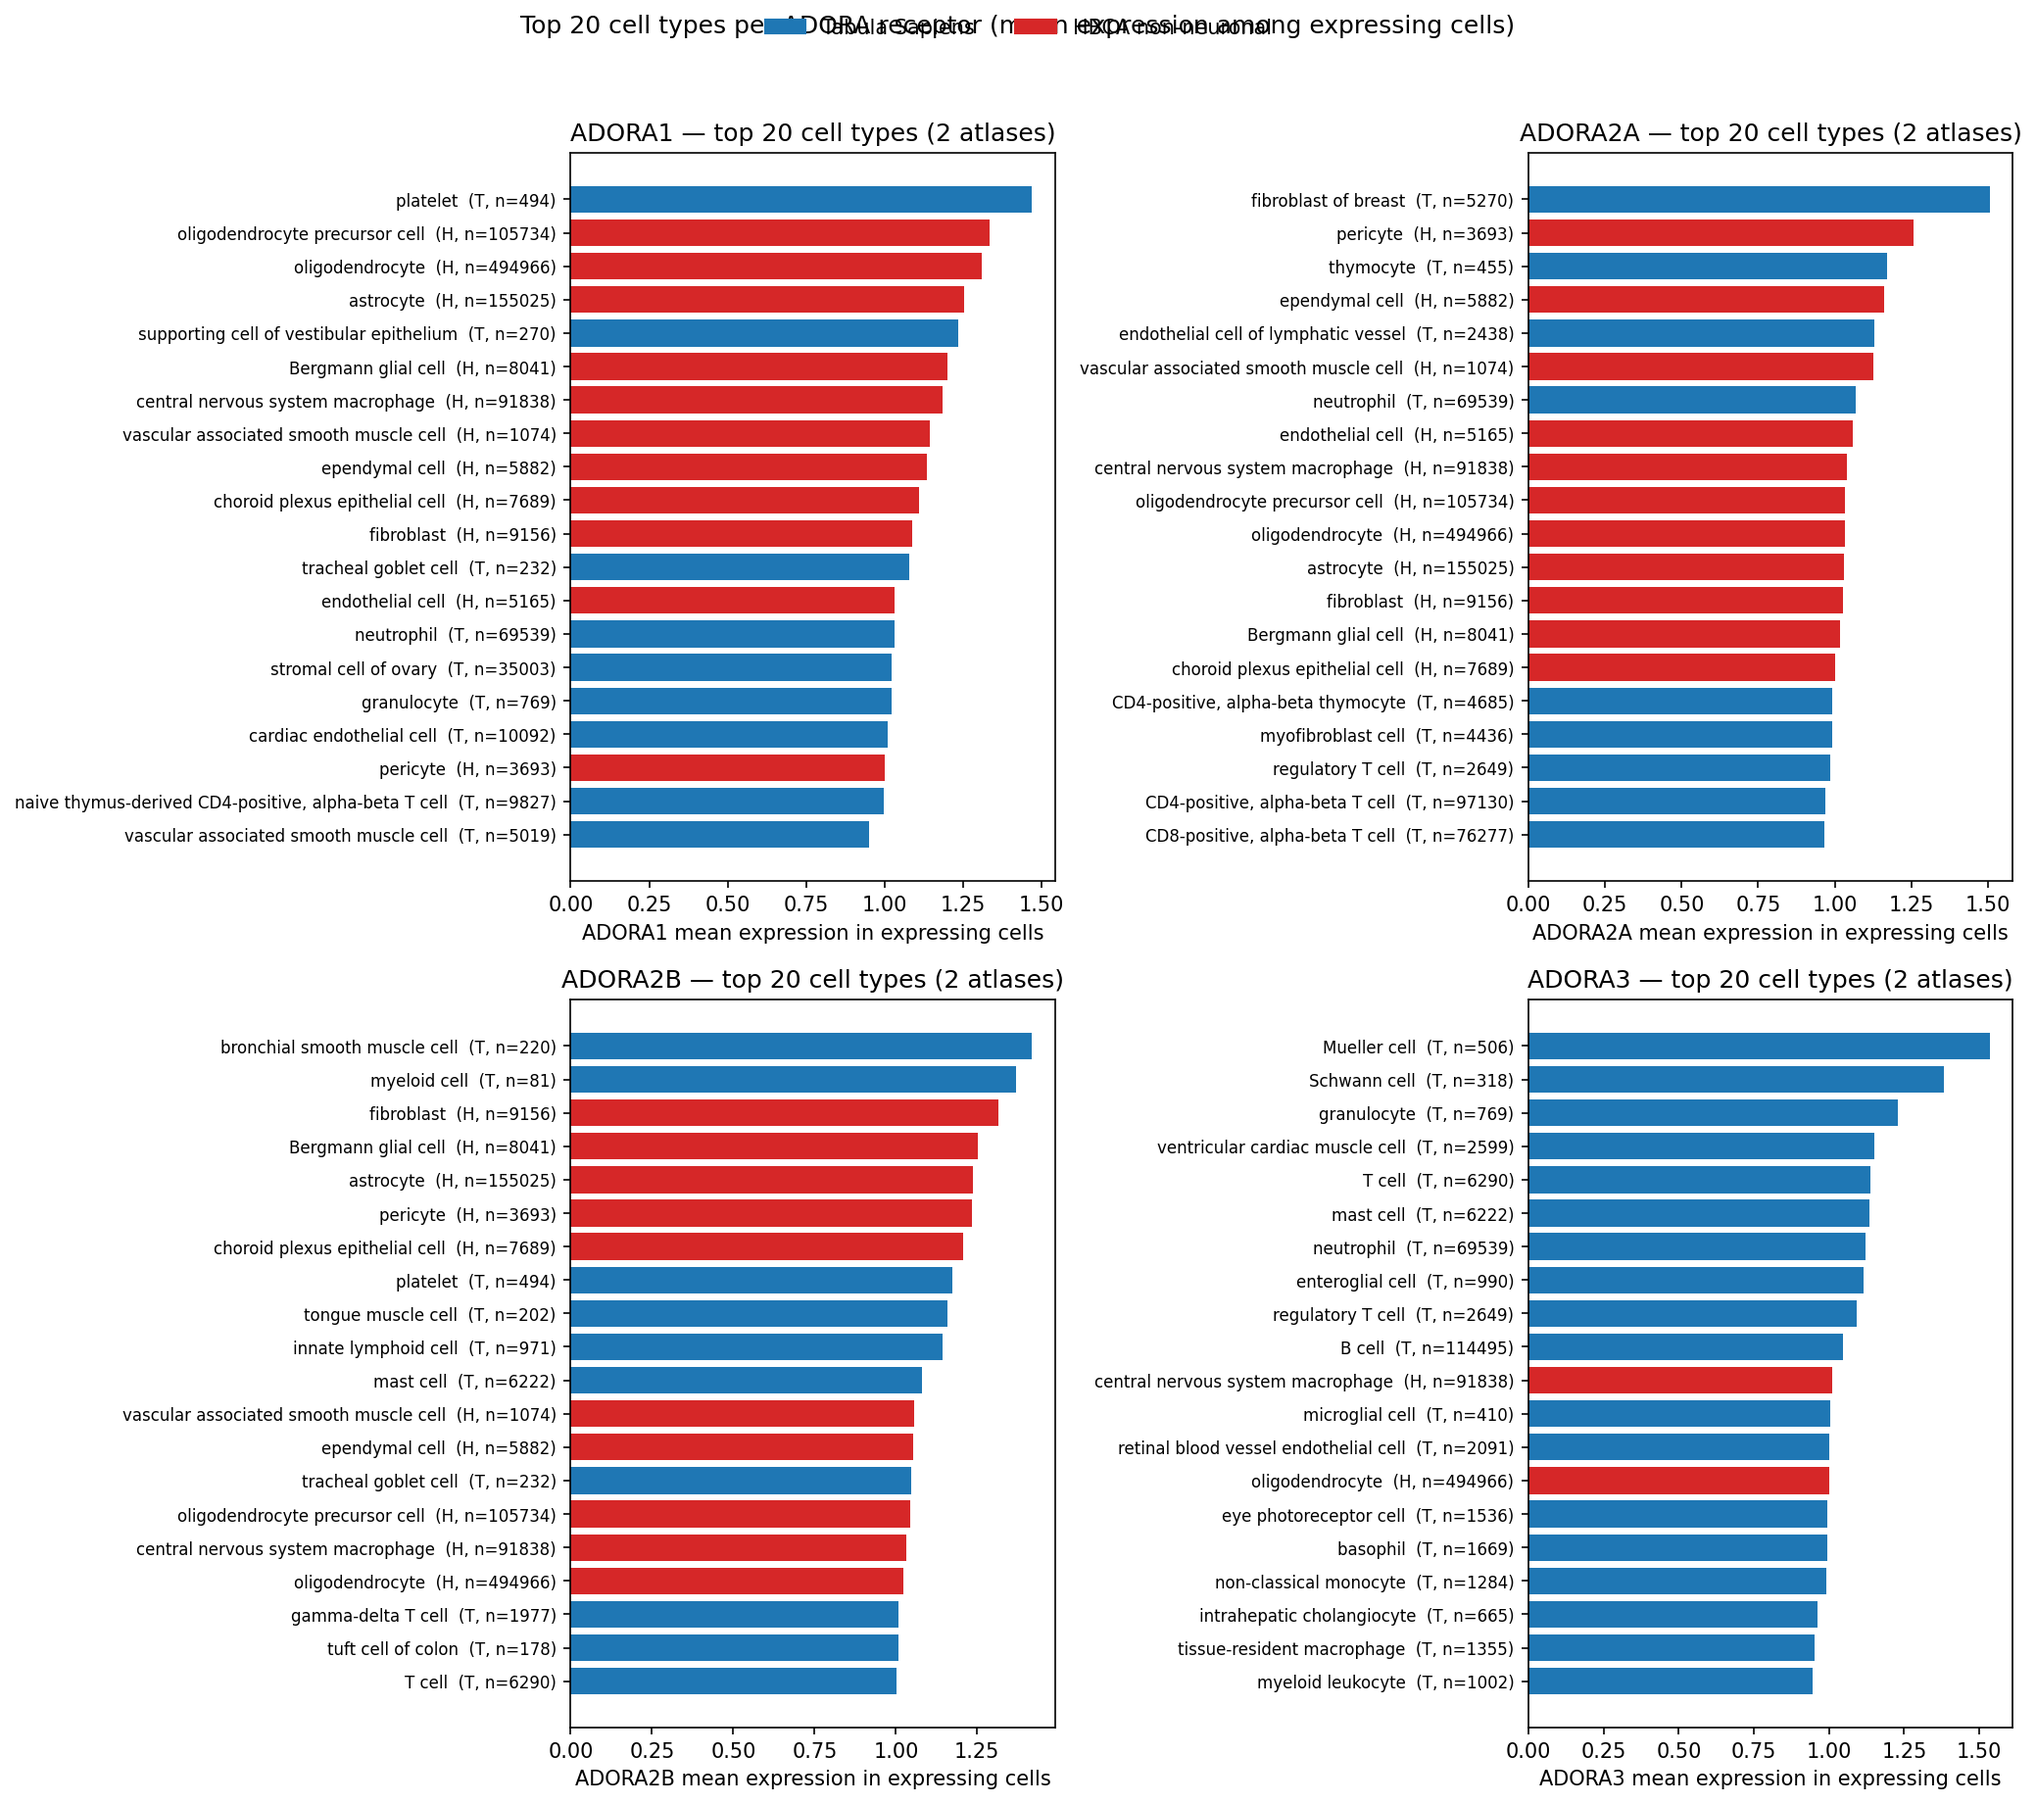
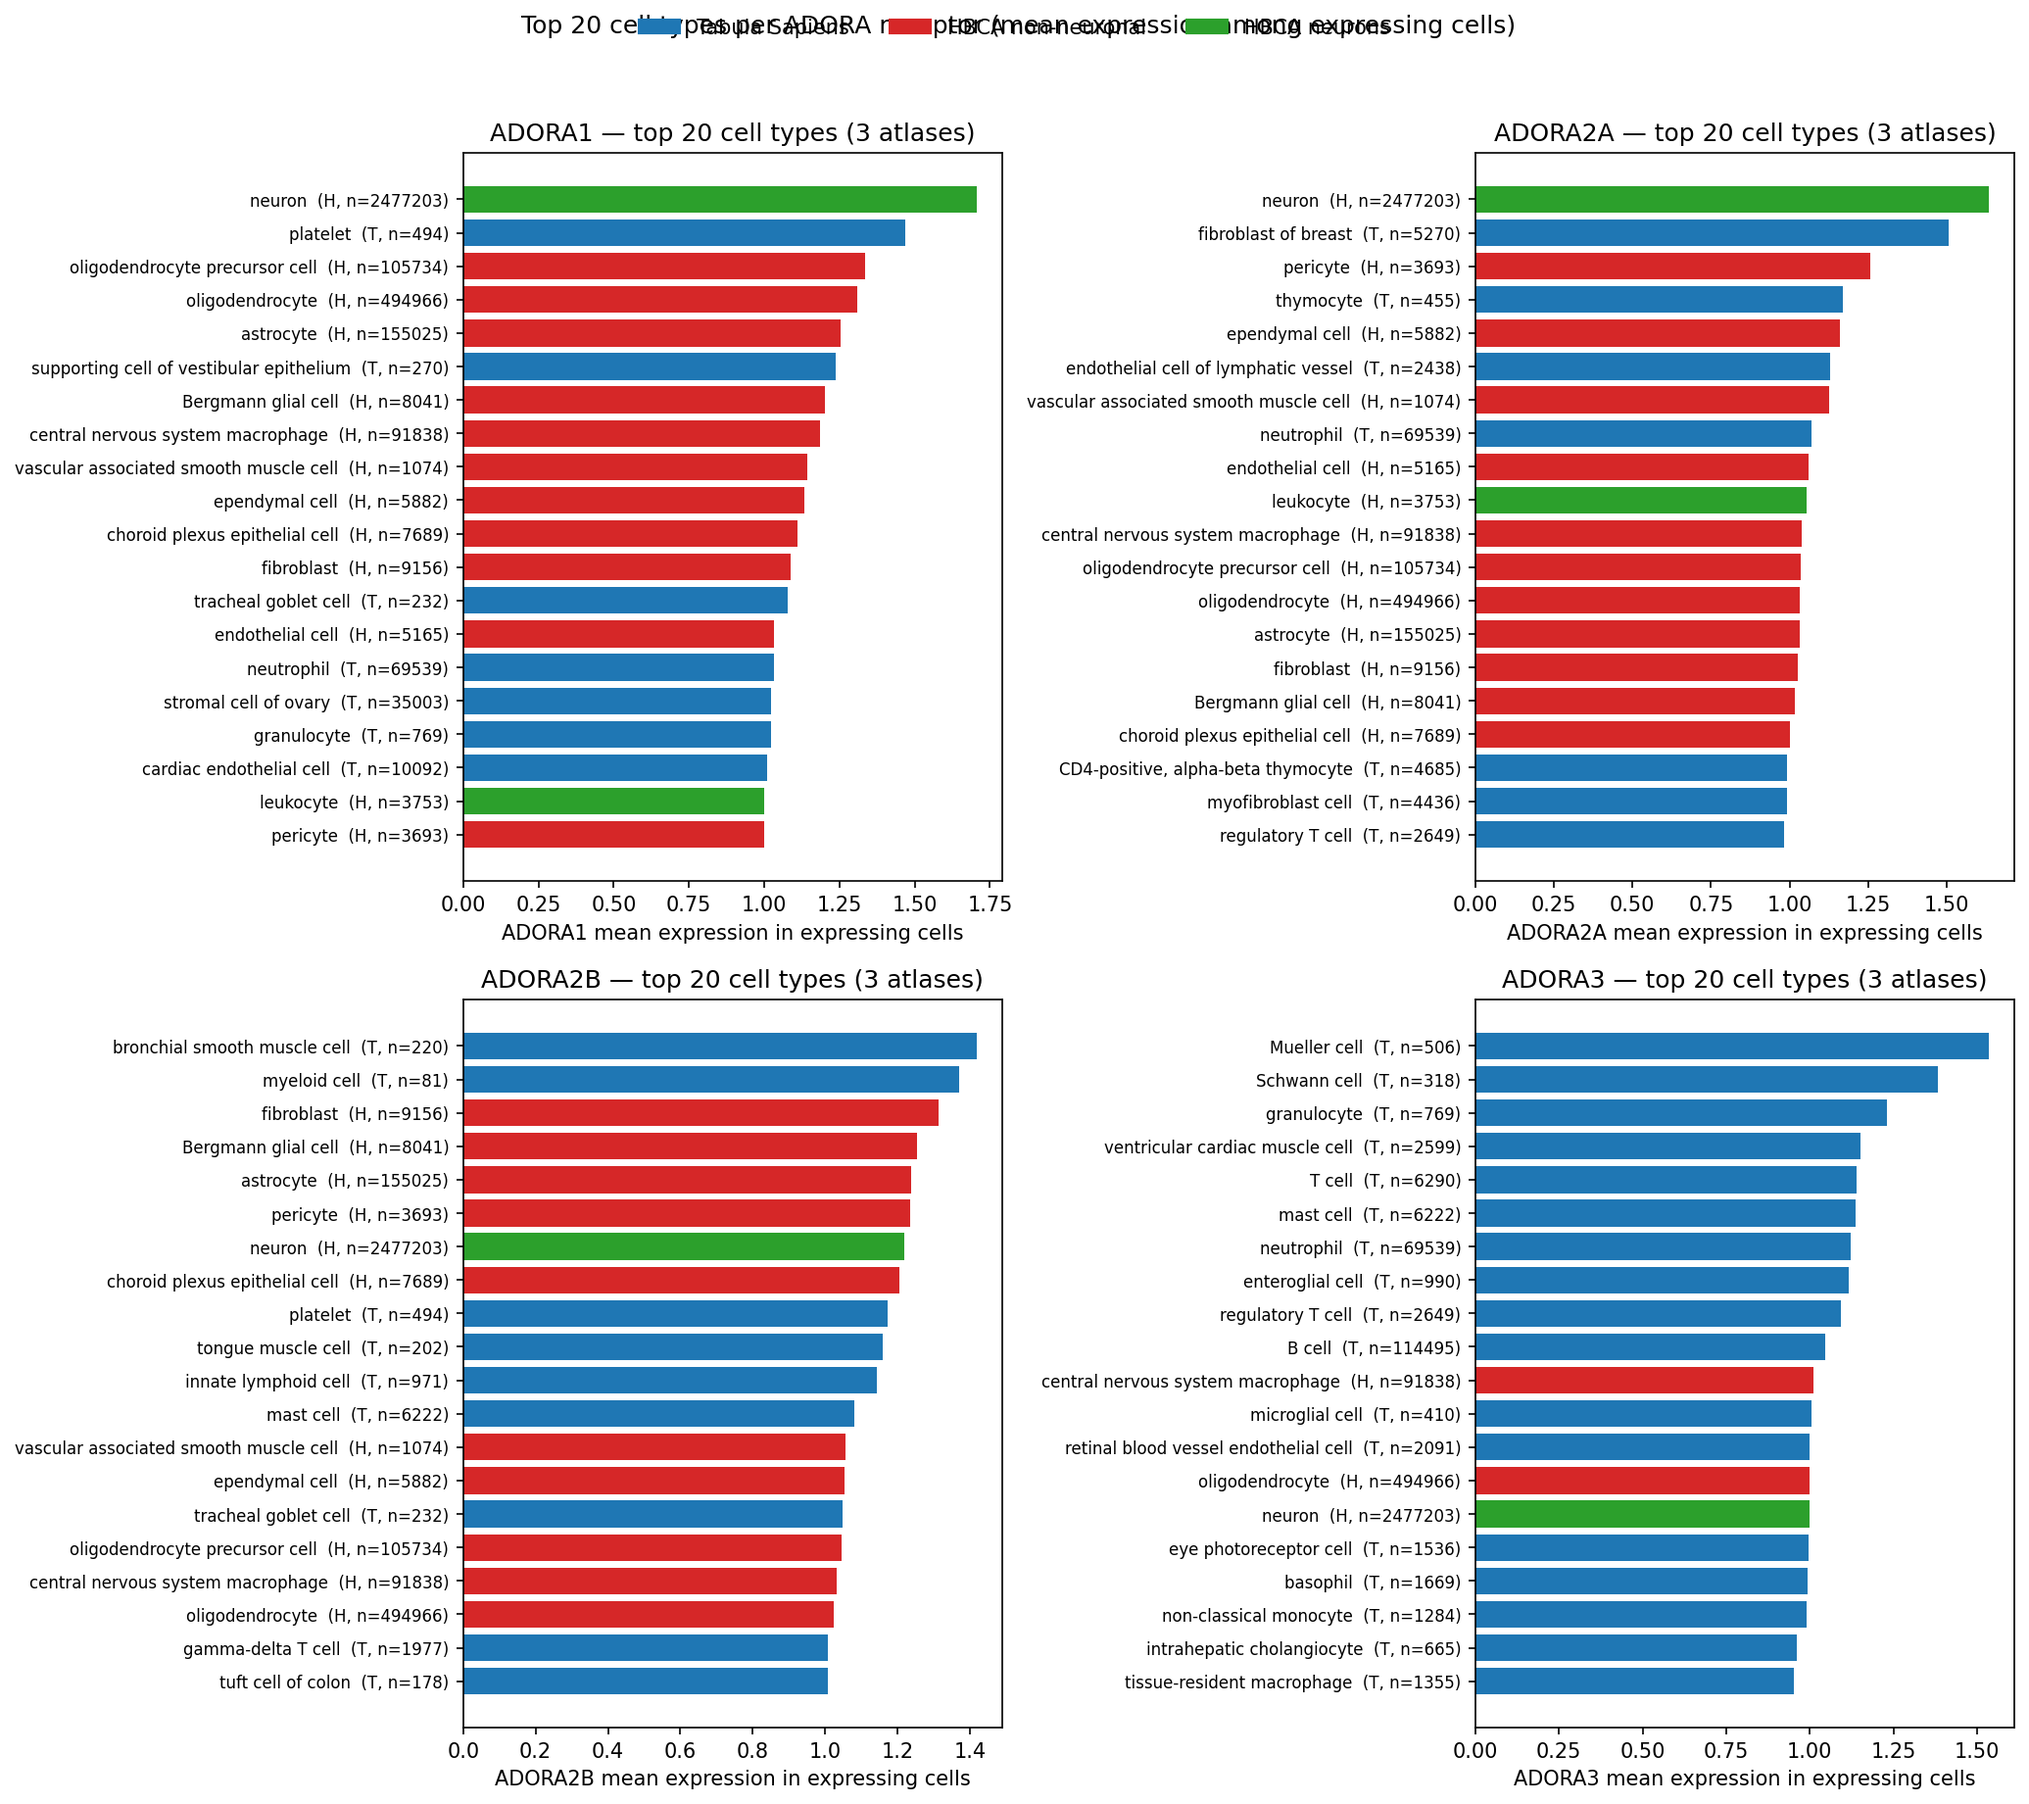
Fold HBCA neurons into Q1 summary artifacts
Add a third atlas source (HBCA neurons, 2.48M cells) alongside Tabula
Sapiens and HBCA non-neuronal. New extract_neuron_adora.py pulls the four
ADORA genes for all neurons from X in memory-safe CSR blocks. Wire neurons
into pseudobulk + cross-receptor overlap, make ranked_top20 plot
source-aware (3 colors), and update docstring/summary to reflect full brain
coverage.

diff --git a/projects/caffeine/lab/001_adora_expression/make_q1_summary_artifacts.py b/projects/caffeine/lab/001_adora_expression/make_q1_summary_artifacts.py
@@ -3,20 +3,22 @@
 
 Reads ADORA expression that was already extracted into compact npz files plus
 obs metadata read directly from the downloaded H5ADs with h5py (no SOMA, no
-network). Combines Tabula Sapiens (peripheral, 1.14M cells) and HBCA non-
-neuronal (brain, 888k cells) so the pseudobulk table is body-wide.
+network). Combines all three atlases — Tabula Sapiens (peripheral, 1.14M
+cells), HBCA non-neuronal (brain, 888k cells), and HBCA neurons (brain,
+2.48M cells) — so the pseudobulk table is body-wide and brain-complete.
 
 Outputs:
     figures/ranked_top20_per_receptor.png
     figures/donor_stratified_dotplot.png            (Tabula only, donor_id)
     figures/assay_stratified_dotplot.png            (Tabula only, assay)
-    cache/pseudobulk_by_cell_type.feather           (combined Tabula + HBCA)
+    cache/pseudobulk_by_cell_type.feather           (Tabula + both HBCA halves)
     cache/cross_receptor_overlap.feather            (combined; per-cell-type)
     cache/q1_summary.json                           run metadata
 
-What this script does NOT cover:
-    HBCA neurons (30 GB H5AD not yet downloaded) — neurons are the canonical
-    brain ADORA1/2A story. Anything striatal/cortical here is absent.
+Coverage note:
+    Brain is now represented by both HBCA halves (non-neuronal + neurons), so
+    the canonical striatal/cortical ADORA1/2A neuronal signal is included.
+    The neuron file is 100% 10x 3' v3.
 """
 
 from __future__ import annotations
@@ -32,6 +34,11 @@ import numpy as np
 import pandas as pd
 
 GENES = ["ADORA1", "ADORA2A", "ADORA2B", "ADORA3"]
+SOURCE_COLORS = {
+    "Tabula Sapiens": "#1f77b4",
+    "HBCA non-neuronal": "#d62728",
+    "HBCA neurons": "#2ca02c",
+}
 LAB_DIR = Path(__file__).resolve().parent
 CACHE_DIR = LAB_DIR / "cache"
 FIG_DIR = LAB_DIR / "figures"
@@ -40,6 +47,8 @@ TABULA_H5AD = CACHE_DIR / "tabula_sapiens_all_cells.h5ad"
 TABULA_EXPR = CACHE_DIR / "tabula_sapiens_adora_expression.npz"
 HBCA_H5AD = CACHE_DIR / "human_brain_cell_atlas" / "hbca_all_non_neuronal_b165f033.h5ad"
 HBCA_EXPR = CACHE_DIR / "human_brain_cell_atlas" / "hbca_adora_expression.npz"
+NEURONS_H5AD = CACHE_DIR / "human_brain_cell_atlas" / "hbca_all_neurons_8e10f1c4.h5ad"
+NEURONS_EXPR = CACHE_DIR / "human_brain_cell_atlas" / "hbca_neurons_adora_expression.npz"
 
 
 def decode(values):
@@ -108,7 +117,7 @@ def ranked_top20_plot(pb: pd.DataFrame, out_path: Path, min_cells: int = 50) -> 
         if sub.empty:
             ax.set_visible(False)
             continue
-        colors = ["#1f77b4" if s == "Tabula Sapiens" else "#d62728" for s in sub["source"]]
+        colors = [SOURCE_COLORS.get(s, "#7f7f7f") for s in sub["source"]]
         labels = [
             f"{ct}  ({s[0]}, n={int(n)})"
             for ct, s, n in zip(sub["cell_type"], sub["source"], sub["n_cells"])
@@ -121,10 +130,10 @@ def ranked_top20_plot(pb: pd.DataFrame, out_path: Path, min_cells: int = 50) -> 
         ax.set_xlabel(f"{gene} mean expression in expressing cells")
         ax.set_title(f"{gene} — top 20 cell types ({sub['source'].nunique()} atlases)")
     handles = [
-        plt.Rectangle((0, 0), 1, 1, color="#1f77b4", label="Tabula Sapiens"),
-        plt.Rectangle((0, 0), 1, 1, color="#d62728", label="HBCA non-neuronal"),
+        plt.Rectangle((0, 0), 1, 1, color=color, label=label)
+        for label, color in SOURCE_COLORS.items()
     ]
-    fig.legend(handles=handles, loc="upper center", ncol=2, frameon=False)
+    fig.legend(handles=handles, loc="upper center", ncol=len(handles), frameon=False)
     fig.suptitle("Top 20 cell types per ADORA receptor (mean expression among expressing cells)",
                  y=1.02)
     fig.tight_layout()
@@ -251,7 +260,7 @@ def stratified_dotplot(expr: np.ndarray, strat: np.ndarray, ct: np.ndarray,
 
 
 def main() -> None:
-    for p in (TABULA_H5AD, TABULA_EXPR, HBCA_H5AD, HBCA_EXPR):
+    for p in (TABULA_H5AD, TABULA_EXPR, HBCA_H5AD, HBCA_EXPR, NEURONS_H5AD, NEURONS_EXPR):
         if not p.exists():
             sys.exit(f"missing input: {p}")
     FIG_DIR.mkdir(exist_ok=True)
@@ -269,13 +278,21 @@ def main() -> None:
     if hbca_expr.shape[0] != len(hbca_obs):
         sys.exit(f"HBCA expr/obs mismatch: {hbca_expr.shape[0]} vs {len(hbca_obs)}")
 
-    print(f"Tabula: {len(tabula_obs):,} cells; HBCA: {len(hbca_obs):,} cells")
+    print("Loading HBCA neuron metadata...")
+    neuron_obs = load_obs(NEURONS_H5AD, ["cell_type", "tissue", "supercluster_term", "donor_id", "assay"])
+    neuron_expr = load_expression(NEURONS_EXPR)
+    if neuron_expr.shape[0] != len(neuron_obs):
+        sys.exit(f"Neuron expr/obs mismatch: {neuron_expr.shape[0]} vs {len(neuron_obs)}")
+
+    print(f"Tabula: {len(tabula_obs):,} cells; HBCA non-neuronal: {len(hbca_obs):,} cells; "
+          f"HBCA neurons: {len(neuron_obs):,} cells")
 
     # Pseudobulk per source, then concat
     print("Building pseudobulk_by_cell_type...")
     pb_tabula = pseudobulk(tabula_expr, tabula_obs["cell_type"].values, "Tabula Sapiens")
     pb_hbca = pseudobulk(hbca_expr, hbca_obs["cell_type"].values, "HBCA non-neuronal")
-    pb = pd.concat([pb_tabula, pb_hbca], ignore_index=True)
+    pb_neurons = pseudobulk(neuron_expr, neuron_obs["cell_type"].values, "HBCA neurons")
+    pb = pd.concat([pb_tabula, pb_hbca, pb_neurons], ignore_index=True)
     pb_out = CACHE_DIR / "pseudobulk_by_cell_type.feather"
     pb.to_feather(pb_out)
     print(f"  → {pb_out}  ({len(pb)} rows)")
@@ -290,7 +307,8 @@ def main() -> None:
     print("Building cross_receptor_overlap...")
     ovl_tabula = cross_receptor_overlap(tabula_expr, tabula_obs["cell_type"].values, "Tabula Sapiens")
     ovl_hbca = cross_receptor_overlap(hbca_expr, hbca_obs["cell_type"].values, "HBCA non-neuronal")
-    ovl = pd.concat([ovl_tabula, ovl_hbca], ignore_index=True)
+    ovl_neurons = cross_receptor_overlap(neuron_expr, neuron_obs["cell_type"].values, "HBCA neurons")
+    ovl = pd.concat([ovl_tabula, ovl_hbca, ovl_neurons], ignore_index=True)
     ovl_out = CACHE_DIR / "cross_receptor_overlap.feather"
     ovl.to_feather(ovl_out)
     print(f"  → {ovl_out}  ({len(ovl)} rows)")
@@ -315,11 +333,14 @@ def main() -> None:
     summary = {
         "tabula_cells": int(len(tabula_obs)),
         "hbca_cells": int(len(hbca_obs)),
+        "neuron_cells": int(len(neuron_obs)),
         "genes": GENES,
         "pseudobulk_rows": int(len(pb)),
         "cross_receptor_rows": int(len(ovl)),
-        "missing_coverage": "HBCA neurons (2.48M cells, 30 GB) not yet downloaded; "
-                            "brain neuronal ADORA1/2A signal absent.",
+        "missing_coverage": "Brain is now fully represented by both HBCA halves "
+                            "(non-neuronal + neurons), so the canonical striatal/"
+                            "cortical ADORA1/2A neuronal signal is included. "
+                            "Note: the neuron file is 100% 10x 3' v3.",
     }
     (CACHE_DIR / "q1_summary.json").write_text(json.dumps(summary, indent=2))
     print("Done.")

diff --git a/projects/caffeine/lab/001_adora_expression/extract_neuron_adora.py b/projects/caffeine/lab/001_adora_expression/extract_neuron_adora.py
@@ -1,0 +1,63 @@
+#!/usr/bin/env python
+"""Extract ADORA expression for all HBCA neurons.
+
+The neuron H5AD (hbca_all_neurons_8e10f1c4.h5ad, 2,480,956 cells) has an X CSR
+matrix (no raw) and var/feature_name as an AnnData categorical. We pull the four
+ADORA genes for every cell in memory-safe CSR blocks and save a compact npz that
+mirrors the non-neuronal npz layout (expression shape (n_cells, 4), genes).
+"""
+
+from __future__ import annotations
+
+from pathlib import Path
+
+import h5py
+import numpy as np
+import scipy.sparse as sp
+
+GENES = ["ADORA1", "ADORA2A", "ADORA2B", "ADORA3"]
+LAB_DIR = Path(__file__).resolve().parent
+CACHE_DIR = LAB_DIR / "cache" / "human_brain_cell_atlas"
+H5AD = CACHE_DIR / "hbca_all_neurons_8e10f1c4.h5ad"
+OUT = CACHE_DIR / "hbca_neurons_adora_expression.npz"
+EXPECTED_ROWS = 2_480_956
+
+
+def dec(a):
+    return [x.decode() if isinstance(x, bytes) else str(x) for x in a]
+
+
+def main() -> None:
+    with h5py.File(H5AD, "r") as f:
+        fn = f["var/feature_name"]
+        symbols = np.array(dec(fn["categories"][:]))[fn["codes"][:]]  # aligned to columns
+        cols = [int(np.where(symbols == g)[0][0]) for g in GENES]
+        print(f"gene -> column index: {dict(zip(GENES, cols))}")
+
+        X = f["X"]
+        indptr = X["indptr"][:]
+        n = indptr.shape[0] - 1
+        ncols = int(X.attrs["shape"][1])
+        data = X["data"]
+        ind = X["indices"]
+        print(f"X shape: ({n}, {ncols})")
+
+        out = np.zeros((n, 4), dtype=np.float32)
+        B = 100_000
+        for s in range(0, n, B):
+            e = min(s + B, n)
+            d0, d1 = int(indptr[s]), int(indptr[e])
+            blk = sp.csr_matrix(
+                (data[d0:d1], ind[d0:d1], indptr[s : e + 1] - d0),
+                shape=(e - s, ncols),
+            )
+            out[s:e] = blk[:, cols].toarray()
+            print(f"  rows {s:,}-{e:,}", flush=True)
+
+    assert out.shape[0] == EXPECTED_ROWS, f"row mismatch: {out.shape[0]} != {EXPECTED_ROWS}"
+    np.savez_compressed(OUT, expression=out, genes=np.array(GENES, dtype=object))
+    print(f"Saved {OUT} with shape {out.shape}")
+
+
+if __name__ == "__main__":
+    main()
